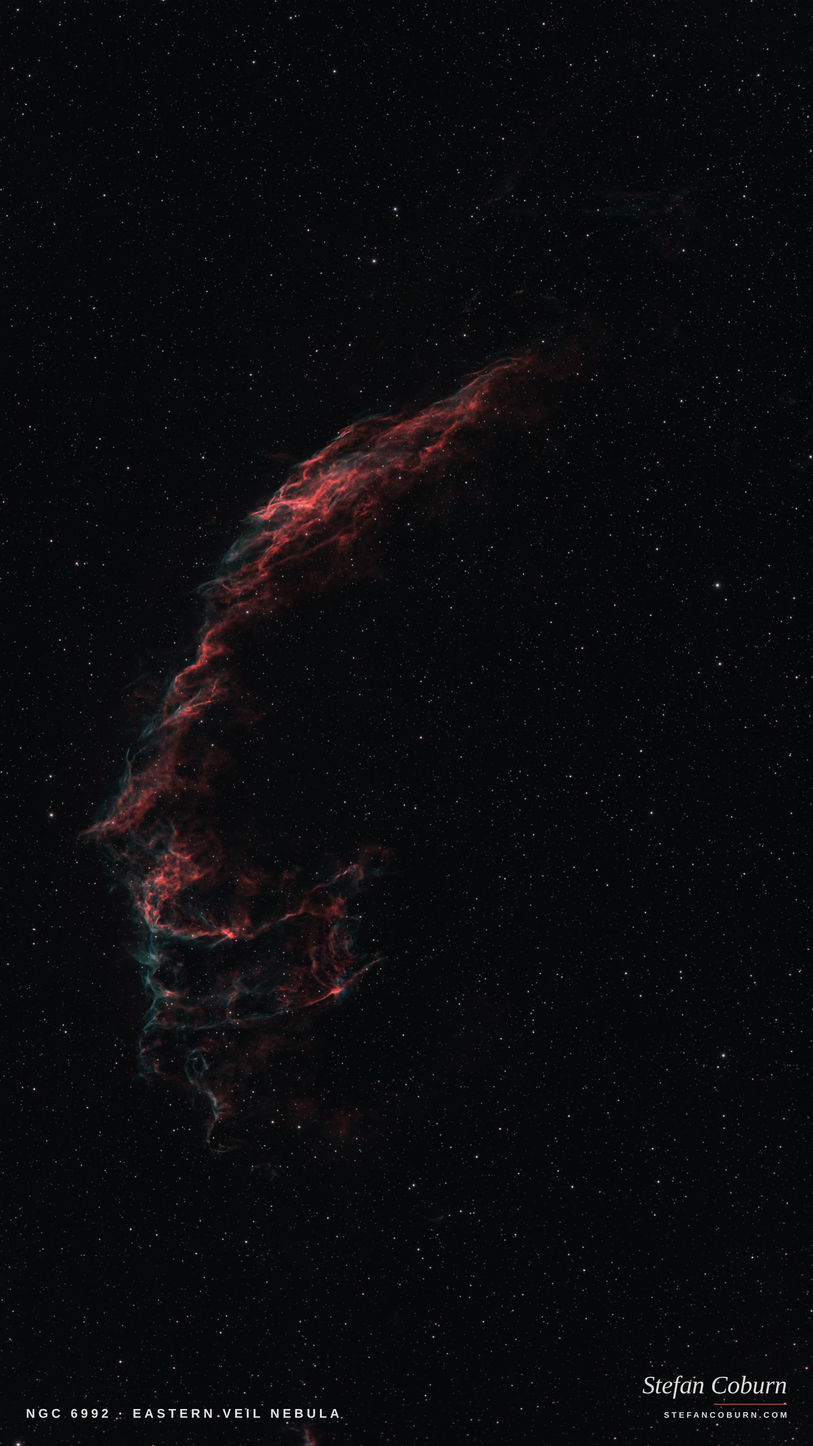
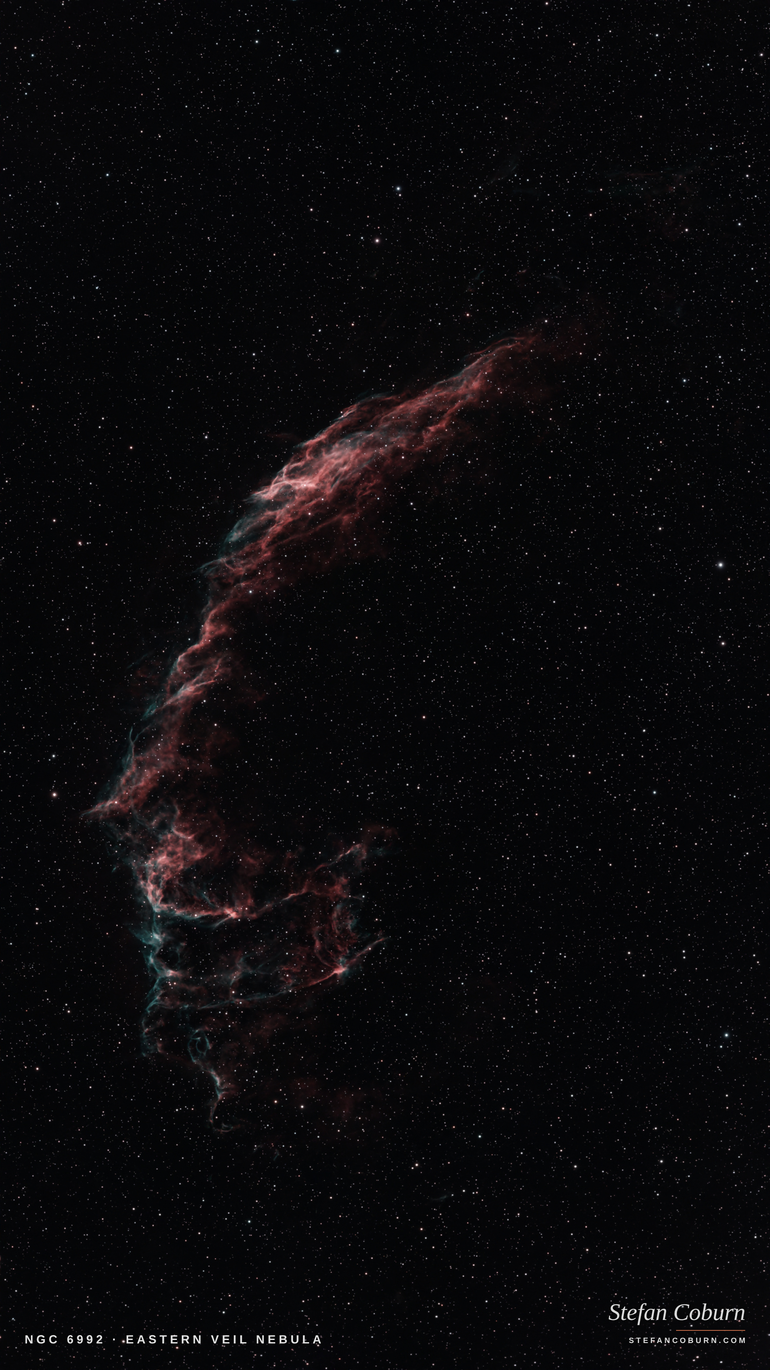
Add Crab Nebula; update Triangulum, Pinwheel and Eastern Veil photos

diff --git a/src/data/astrophotos.ts b/src/data/astrophotos.ts
@@ -77,7 +77,7 @@ export const astrophotos: AstroPhoto[] = [
     constellation: 'Triangulum',
     distance: 'About 2.7 million light-years',
     about: 'The third-largest member of our Local Group of galaxies, after Andromeda and the Milky Way, and a close neighbour of Andromeda in the sky. It is a loosely wound spiral about 60,000 light-years across, with no bright central bulge, which makes its light faint and spread out. The small pink knots scattered along the arms are clouds of glowing hydrogen where new stars are forming; the largest of them, NGC 604, is one of the biggest stellar nurseries known in any nearby galaxy.',
-    alt: 'A soft, pale oval of spiral arms with a slightly brighter centre and a few tiny pink spots, tilted in the middle of a tall dark field of stars.',
+    alt: 'A soft, pale oval of spiral arms with a slightly brighter centre and a few tiny pink spots, tilted in the middle of a dark field of stars.',
     capture: 'Captured over two nights, 14 and 15 November 2026',
   },
   {
@@ -90,5 +90,16 @@ export const astrophotos: AstroPhoto[] = [
     about: 'One edge of the Cygnus Loop, the expanding wreckage of a massive star that blew itself apart somewhere between ten and twenty thousand years ago. The blast wave is still moving outward, and where it ploughs into the thin gas between the stars it heats it into these glowing filaments: red from hydrogen, blue-green from oxygen. The whole loop spans about six full Moons of sky, so this frame holds only its eastern arc. William Herschel discovered it in 1784.',
     alt: 'A long, curved ribbon of fine red filaments edged with faint teal, arcing from upper right to lower left across a dense field of stars.',
     capture: 'Captured over two nights, 14 and 15 November 2026',
+  },
+  {
+    slug: 'crab-nebula',
+    name: 'Crab Nebula',
+    designation: 'M1 · NGC 1952',
+    type: 'Supernova remnant',
+    constellation: 'Taurus',
+    distance: 'About 6,500 light-years',
+    about: 'The wreckage of a star whose explosion was seen from Earth in the year 1054. Chinese astronomers recorded a "guest star" bright enough to be visible in daylight for more than three weeks. Nearly a thousand years on, the debris has spread into a cloud about eleven light-years across, still expanding at around 1,500 kilometres a second, with red filaments of hydrogen threaded through it. At its centre sits the collapsed core of the star, a pulsar spinning thirty times a second. It is small in this frame because it is small in the sky, and it is the first entry in Charles Messier’s famous catalogue.',
+    alt: 'A small, pinkish oval cloud laced with fine red filaments, alone in the centre of a wide, dense field of stars.',
+    capture: 'Captured 14 November 2026',
   },
 ];
